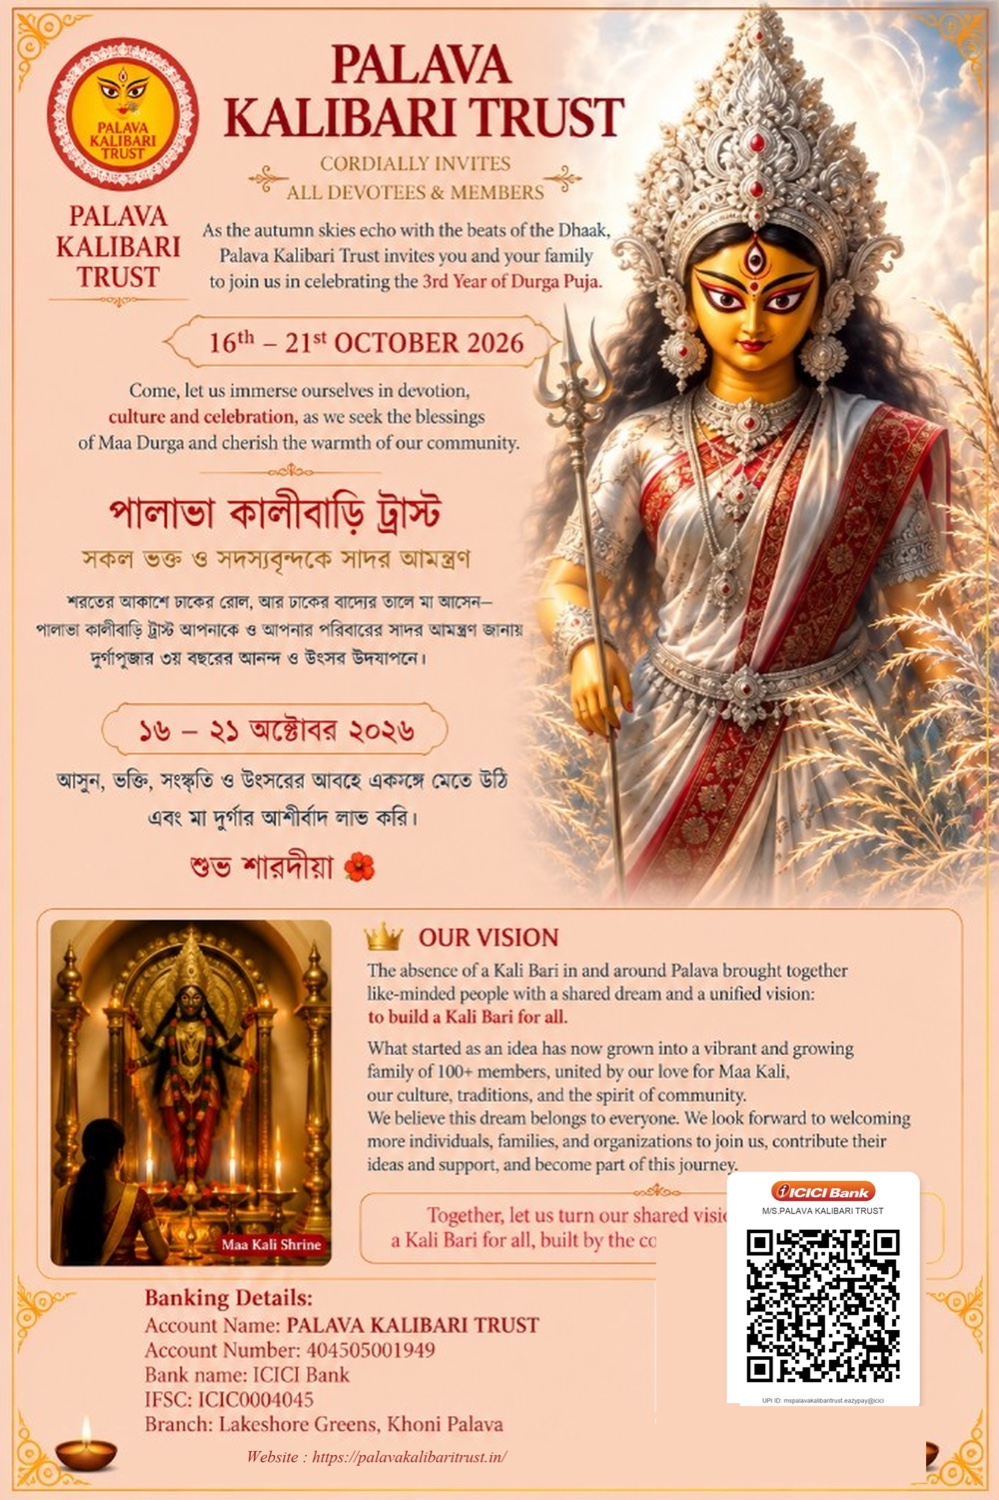
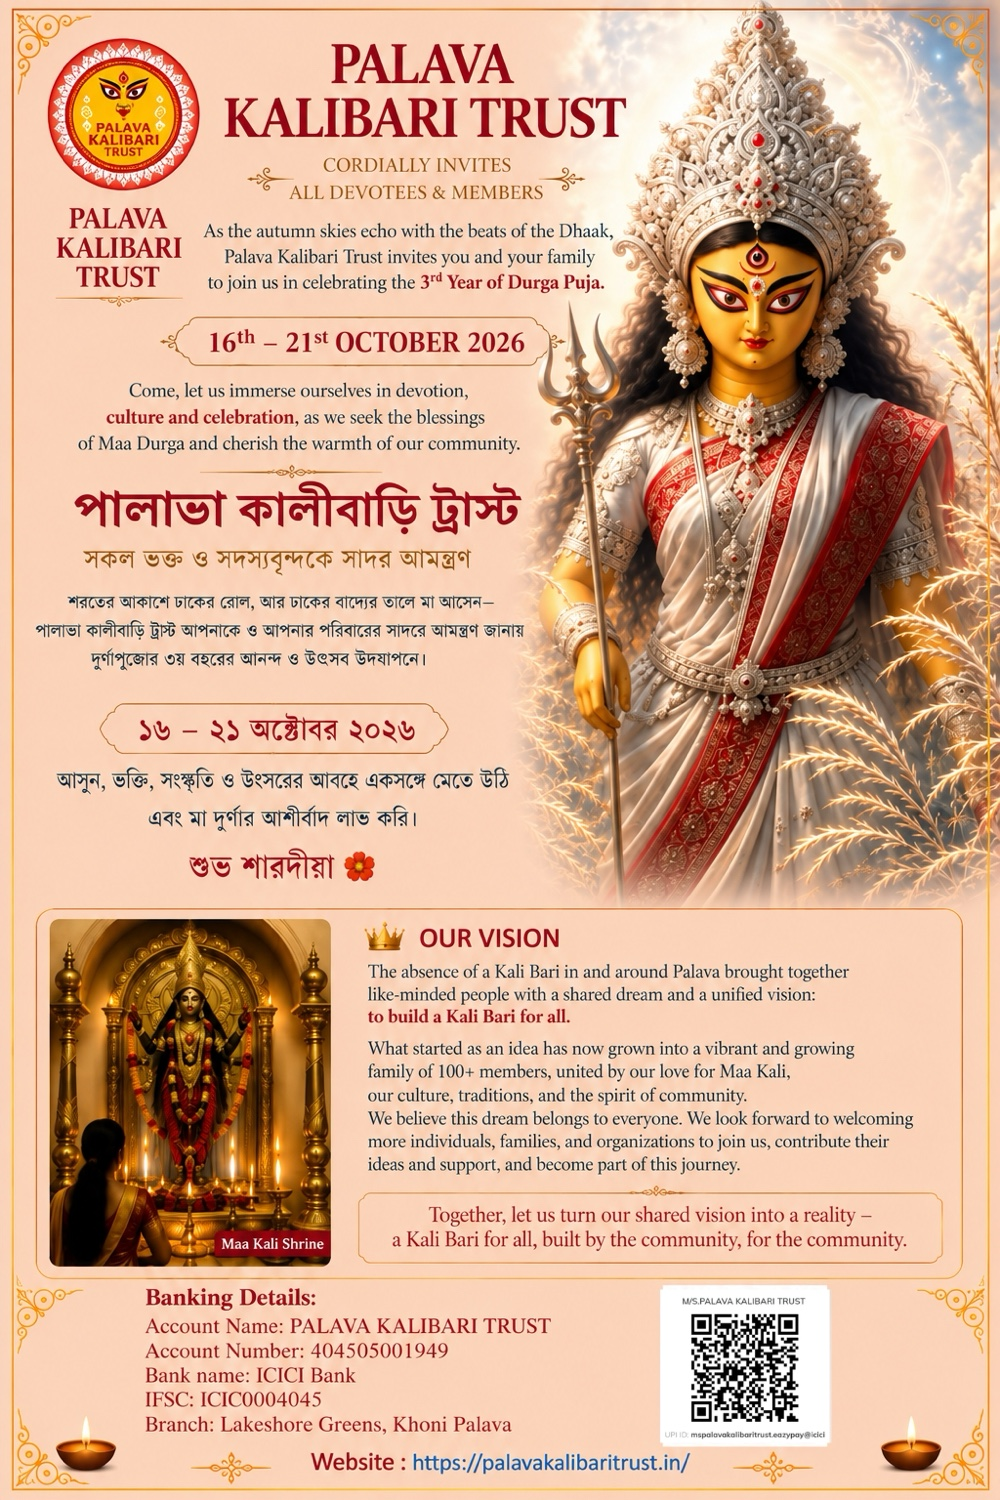
Replace Grand Invitation poster with final Bengali version (banking + scanner); cache-bust v7

Changed region(s): [[0.0, 0.0, 1.0, 1.0], [0.6206, 0.0, 0.6517, 0.0307]]

diff --git a/src/App.jsx b/src/App.jsx
@@ -303,7 +303,7 @@ function VideoViewer({ media, isActive, onEnded }) {
 // ── Reusable poster gallery (tap to enlarge) ──
 const INVITATION_POSTERS = [
   { src: '/invite-nirghanta.jpg?v=6', label: 'Puja Nirghanta', sub: 'Ritual schedule • 16–21 Oct 2026' },
-  { src: '/invite-durga-2026.jpg?v=6', label: 'Grand Invitation', sub: 'Celebrating our 3rd year' },
+  { src: '/invite-durga-2026.jpg?v=7', label: 'Grand Invitation', sub: 'Celebrating our 3rd year' },
   { type: 'video', src: '/invitation-reel.mp4', label: 'Festival Reel', sub: 'A glimpse of the celebration' },
 ]
 const STALL_POSTERS = [
